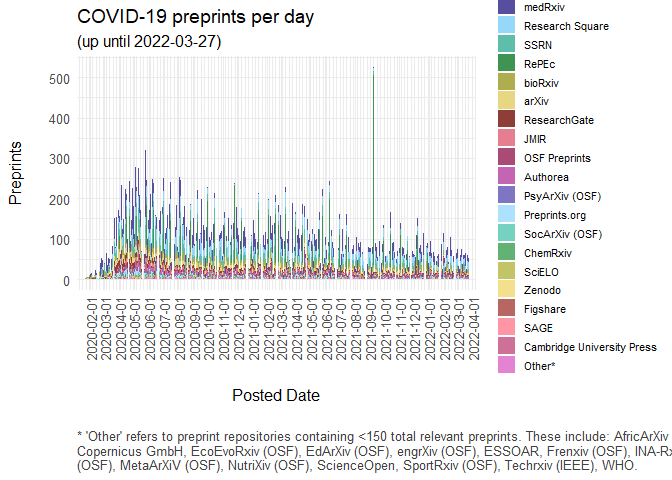
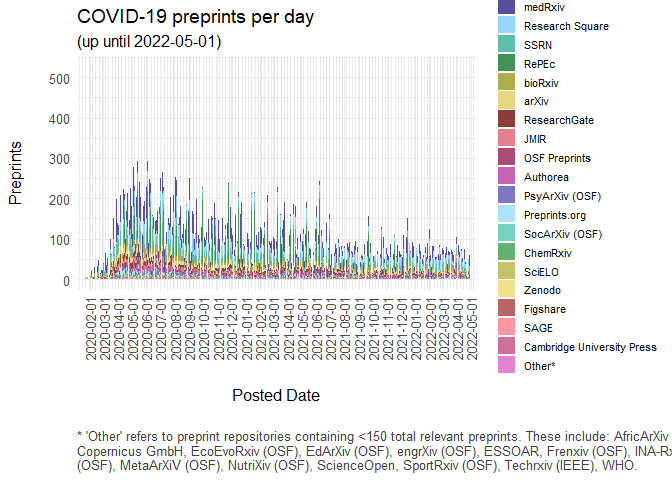
Update 2022-05-02 for preprints posted up until 2022-05-01 (including knitted .md file and output)

Changed region(s): [[0.125, 0.3438, 0.7188, 0.5938], [0.125, 0.625, 0.7188, 0.75], [0.2812, 0.0625, 0.3438, 0.0938]]

diff --git a/covid19_preprints.md b/covid19_preprints.md
@@ -254,7 +254,7 @@ directly crawling the SSRN website (using the
 getSSRNPublicationDate <- function(doi) {
   
   #in case requests time out (http error 429), use rate limiting
-  #Sys.sleep(2.5)
+  Sys.sleep(2.5)
   
   # Base URL for querying
   base_url <- "https://doi.org/"
@@ -741,6 +741,7 @@ other_caption <- str_wrap(other_text, width = 150)
 # daily preprint counts
 covid_preprints %>%
   filter(posted_date <= posted_date_until) %>%
+  filter(posted_date >= ymd("2020-01-13")) %>%
   mutate(source = case_when(
     source %in% other ~ "Other*",
     T ~ source
@@ -770,6 +771,7 @@ ggsave("outputs/figures/covid19_preprints_day.png", width = 12, height = 6)
 # Weekly preprint counts
 covid_preprints %>%
   filter(posted_date <= posted_date_until) %>%
+  filter(posted_date >= ymd("2020-01-13")) %>%
   mutate(
     source = case_when(
       source %in% other ~ "Other*",
@@ -802,6 +804,7 @@ ggsave("outputs/figures/covid19_preprints_week.png", width = 12, height = 6)
 # Monthly preprint counts
 covid_preprints %>%
   filter(posted_date <= posted_date_until) %>%
+  filter(posted_date >= ymd("2020-01-13")) %>%
   mutate(
     source = case_when(
       source %in% other ~ "Other*",
@@ -835,6 +838,7 @@ ggsave("outputs/figures/covid19_preprints_month.png", width = 12, height = 6)
 # Cumulative daily preprint counts, by week
 covid_preprints %>%
   filter(posted_date <= posted_date_until) %>%
+  filter(posted_date >= ymd("2020-01-13")) %>%
   mutate(source = case_when(
       source %in% other ~ "Other*",
       T ~ source
@@ -868,6 +872,7 @@ ggsave("outputs/figures/covid19_preprints_day_cumulative_by_week.png", width = 1
 # Cumulative daily preprint counts, by month
 covid_preprints %>%
   filter(posted_date <= posted_date_until) %>%
+  filter(posted_date >= ymd("2020-01-13")) %>%
   mutate(source = case_when(
       source %in% other ~ "Other*",
       T ~ source
